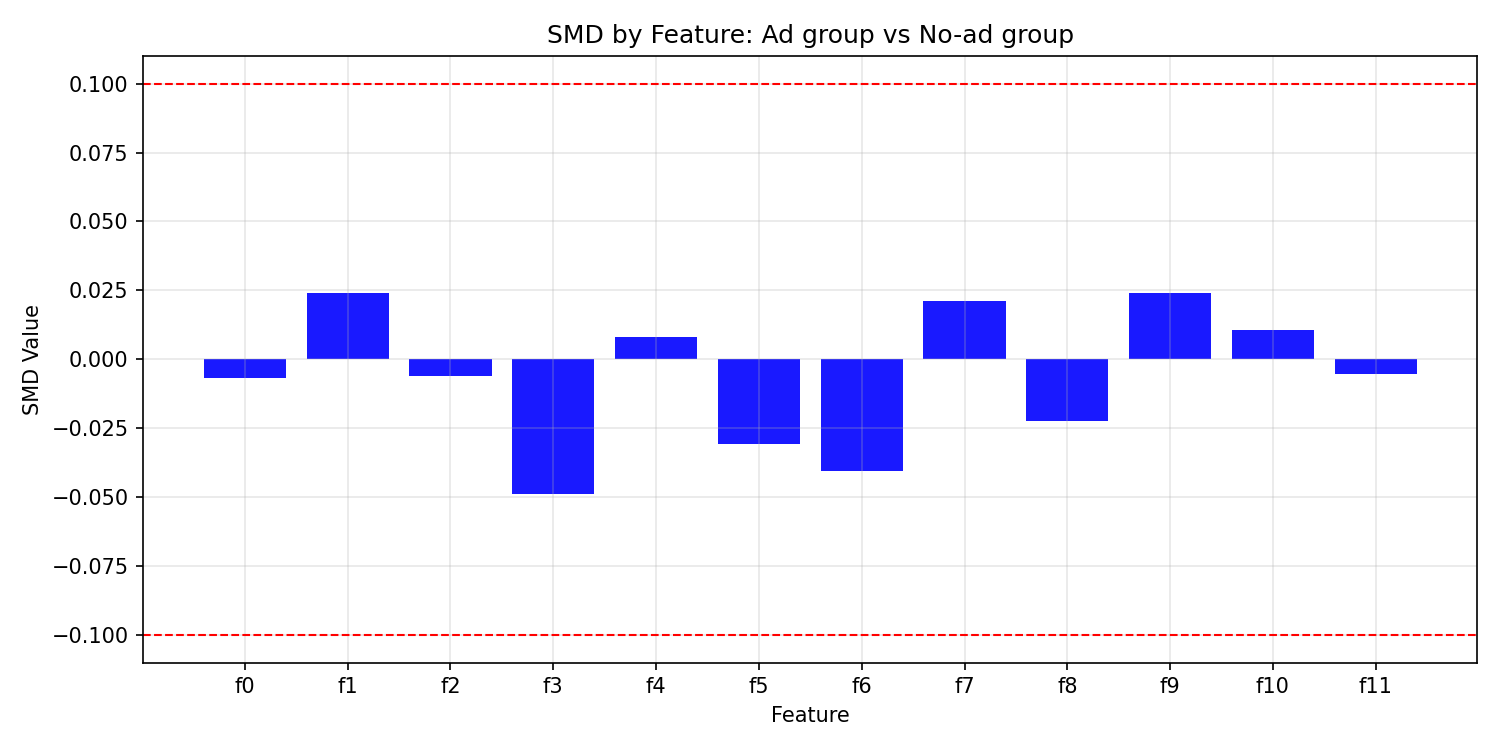
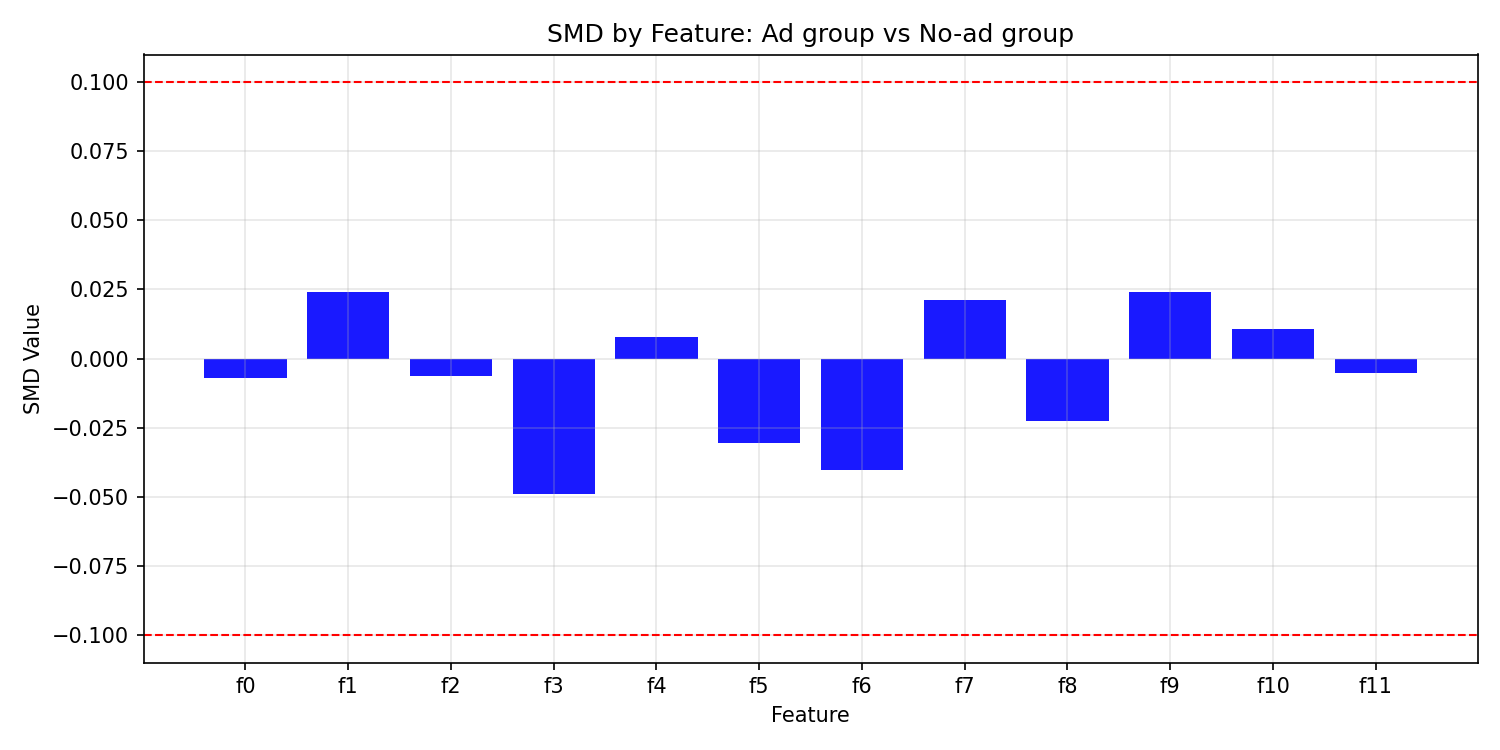
Add treatment share calculation and exposure distribution for No-ad group

diff --git a/notebooks/main.py b/notebooks/main.py
@@ -103,3 +103,12 @@ print(f'Mean exposure for No-ad group: {exposure_mean_untreated:.4f}')
 
 ate_exposure = exposure_mean_treated - exposure_mean_untreated
 print(f'ATE for exposure: {ate_exposure:.4f}')
+
+treatment_share = (df2['treatment'] == 1).mean()
+print(f'Share of Ad group: {treatment_share[0]:.4f}')
+
+exposure_zero_no_ad = df2[df2['treatment']==0]['exposure'].value_counts()
+print(f'Exposure distribution for No-ad group:\n{exposure_zero_no_ad}')
+
+
+SE = np.sqrt((df2[df2['treatment']==1]['visit'].var()/df2[df2['treatment']==1].shape[0] + (df2[df2['treatment']==0]['visit'].var()/df2[df2['treatment']==0].shape[0])))
